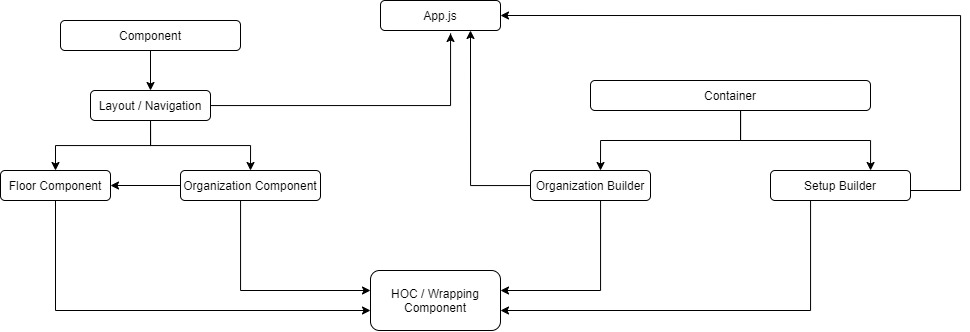
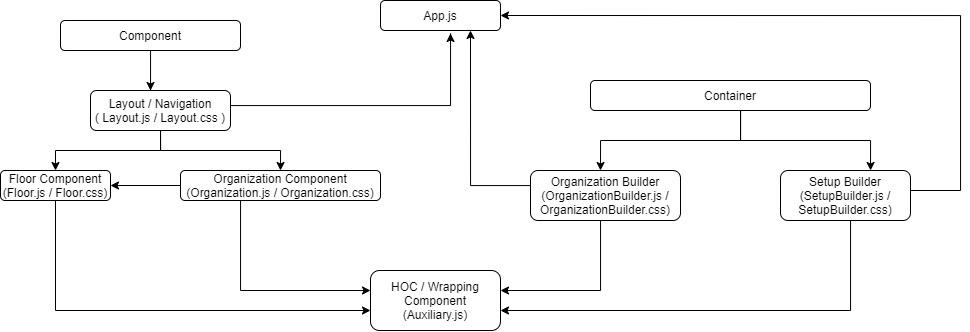
Saswata: update architecture.

diff --git a/docs/planning/README.md b/docs/planning/README.md
@@ -50,6 +50,7 @@ December:
 - Import Organization.js in OrganizationBuilder.js, on update state after GET call Organization will upload with previously saved data. Site details will be displayed in Organization cards.
 - Import Floor.js in Organization.js. On click on Organization card, Floor.js will upload. Floor.js will contain data of floor details for particular site.
 - HOC / Auxiliary.js will wrap all the components.
+- CSS files will be along with .js file. As per requirement .css file name can change to .module.css so that css will apply particularly on .js file.
 
 ## Note:
 - We are about to kick start this project. We welcome pull requests. Feel free to comment or reach out to us. 
